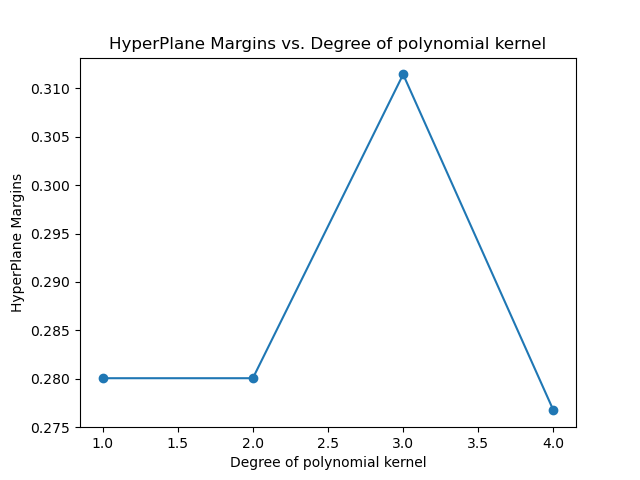
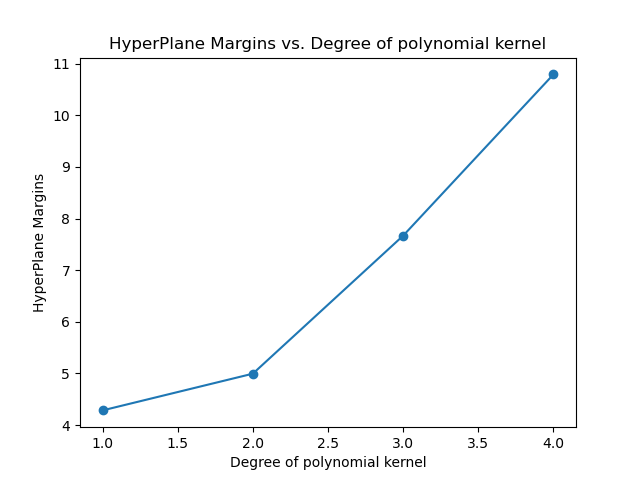
done with homework 4

diff --git a/Homework 4/assignment4.py b/Homework 4/assignment4.py
@@ -27,10 +27,9 @@ def read_classification_data(file_path:str) ->Tuple[np.array, np.array]:
     Return the data as 2 np arrays each with shape (number_of_rows_in_dataframe, 1)
     Order (np.array from first row), (np.array from second row)
   '''
-  #Read data
   data = np.genfromtxt(file_path, delimiter=',')
 
-  #Separate the rows
+  #separate rows
   row1 = data[0, :].reshape(-1, 1)
   row2 = data[1, :].reshape(-1, 1)
   return row1, row2
@@ -54,7 +53,7 @@ def cost_function(w:float, b:float, X:np.array, y:np.array) -> float:
     y : target with shape (number_of_rows_in_dataframe, 1)
   Return the loss as a float data type. 
   '''
-  #   compute the predictions
+  #     compute the predictions
   z = np.dot(X, w) + b
   y_pred = sigmoid(z)
 
@@ -89,7 +88,6 @@ def cross_entropy_optimizer(w:float, b:float, X:np.array, y:np.array, num_iterat
       #compute the predicted probabilities and loss
       z = np.dot(X, w) + b
       y_pred = sigmoid(z)
-      
       loss = cost_function(w, b, X, y)
       costs.append(loss)
 
@@ -102,7 +100,6 @@ def cross_entropy_optimizer(w:float, b:float, X:np.array, y:np.array, num_iterat
       b -= alpha * db
       w = w.item()
       b = b.item()
-
   return w, b, costs
     
 
@@ -134,7 +131,6 @@ def normalize_data(Xtrain : pd.DataFrame, Xtest : pd.DataFrame) -> Tuple [pd.Dat
     Use sklearn.preprocessing.StandardScaler library to normalize
     Return the results in the order Xtrain_norm, Xtest_norm
   '''
-
   scaler = StandardScaler()
   Xtrain_norm = scaler.fit_transform(Xtrain)
   Xtest_norm = scaler.transform(Xtest)
@@ -195,14 +191,14 @@ def cross_validate_c_vals(X : pd.DataFrame, y : pd.DataFrame, n_folds: int, c_va
   y = y.to_numpy().reshape((y_length,))
   for i, c in enumerate(c_vals):
       for j, d in enumerate(d_vals):
-          kf = StratifiedKFold(n_splits=n_folds)
+          fold = StratifiedKFold(n_splits=n_folds)
           fold_errors = []
-          for train_index, test_index in kf.split(X,y):
+          for train_index, test_index in fold.split(X,y):
               X_train, X_test = X.iloc[train_index], X.iloc[test_index]
               y_train, y_test = y[train_index], y[test_index]
-              clf = SVC(kernel='poly', degree=d, C=c, gamma='scale')
-              clf.fit(X_train, y_train)
-              y_pred = clf.predict(X_test)
+              svc_model = SVC(kernel='poly', degree=d, C=c)
+              svc_model.fit(X_train, y_train)
+              y_pred = svc_model.predict(X_test)
               fold_errors.append(mean_absolute_error(y_test, y_pred))
           ERRAVGdc[i][j] = np.mean(fold_errors)
           ERRSTDdc[i][j] = np.std(fold_errors)
@@ -251,92 +247,25 @@ def evaluate_c_d_pairs(X_train : pd.DataFrame, y_train : pd.DataFrame, X_test : 
     MarginT      - Average Value of Hyperplane Margins for each value of 'd'
   Implement- evaluate_c_d_pairs(), plot_test_errors, plot_avg_support_vec(), plot_avg_violating_support_vec(), plot_avg_hyperplane_margins()
   '''
-  """
-  ERRAVGdcTEST = np.zeros(len(d_vals))
-  SuppVect = np.zeros(len(d_vals))
-  vmd = np.zeros(len(d_vals))
+  ERRAVGdcTEST = np.zeros( len(d_vals))
+  SuppVect = np.zeros( len(d_vals))
+  vmd = np.zeros( len(d_vals))
   MarginT = np.zeros(len(d_vals))
 
-  y_train = y_train.to_numpy().ravel()
-  y_test = y_test.to_numpy().ravel()
-
-  for j, d in enumerate(d_vals):
-      best_c = c_vals[j]
-      clf = SVC(kernel='linear', degree=d, C=best_c)
-      clf.fit(X_train, y_train)
-      y_pred = clf.predict(X_test)
-      supp_vect_count = np.sum(clf.n_support_)
-      vmd_val = (1/2) * np.sum(clf.coef_**2) + clf.intercept_
-      margin_t = 1 / np.linalg.norm(clf.coef_)
-
-      ERRAVGdc = np.zeros(n_folds)
-      for i, (train_index, val_index) in enumerate(StratifiedKFold(n_splits=n_folds).split(X_train, y_train)):
-          X_train_kf, X_val = X_train.iloc[train_index], X_train.iloc[val_index]
-          y_train_kf, y_val = y_train[train_index], y_train[val_index]
-          clf = SVC(kernel='poly', degree=d, C=best_c, gamma='scale')
-          clf.fit(X_train_kf, y_train_kf)
-          y_val_pred = clf.predict(X_val)
-          ERRAVGdc[i] = mean_absolute_error(y_val, y_val_pred)
-
-      ERRAVGdcTEST[j] = mean_absolute_error(y_test, y_pred)
-      SuppVect[j] = supp_vect_count
-      vmd[j] = vmd_val
-      MarginT[j] = margin_t
-
-  return ERRAVGdcTEST, SuppVect, vmd, MarginT
-  """
-  # Create arrays to store results for each C and D value
-  ERR = np.zeros((n_folds, len(c_vals), len(d_vals)))
-  SuppVect = np.zeros((len(c_vals), len(d_vals)))
-  vmd = np.zeros((len(c_vals), len(d_vals)))
-  MarginT = np.zeros((len(c_vals), len(d_vals)))
-
-  # Set up K-fold cross-validation
-  kf = KFold(n_splits=n_folds)
-
-  # Loop through each degree of polynomial function (D value)
-  for j in range(len(d_vals)):
-      d = d_vals[j]
-      X = PolynomialFeatures(X_train, d)
-
-      # Loop through each regularization parameter (C value)
-      for i in range(len(c_vals)):
-          c = c_vals[i]
-          err = []
-          n_support_vectors = []
-          n_violating_vectors = []
-          margins = []
-
-          # Loop through each fold of the cross-validation
-          for train_index, val_index in kf.split(X_train):
-              X_train_fold, X_val_fold = X_train.iloc[train_index], X_train.iloc[val_index]
-              y_train_fold, y_val_fold = y_train.iloc[train_index], y_train.iloc[val_index]
-
-              # Train the SVM model with the current C and D values
-              clf = SVC(kernel='poly', C=c, degree=d)
-              clf.fit(X_train_fold, y_train_fold.values.ravel())
-
-              # Predict on the validation set and calculate the mean squared error
-              y_pred = clf.predict(X_val_fold)
-              err.append(mean_absolute_error(y_val_fold, y_pred))
-
-              # Record the number of support vectors and number of violating vectors
-              n_support_vectors.append(clf.n_support_.sum())
-              n_violating_vectors.append((np.abs(clf.decision_function(X_val_fold)) - 1 > 1e-5).sum())
-
-              # Record the margin of the hyperplane
-              margin = 2 / np.sqrt(np.sum(clf.coef_ ** 2))
-              margins.append(margin)
-
-          # Calculate the mean of each metric over all folds of cross-validation
-          ERR[:, i, j] = err
-          SuppVect[i, j] = np.mean(n_support_vectors)
-          vmd[i, j] = np.mean(n_violating_vectors)
-          MarginT[i, j] = np.mean(margins)
-
-  # Calculate the average testing error for each value of D
-  ERRAVGdcTEST = np.mean(ERR, axis=0)
-
+  y_train = y_train.to_numpy().reshape((y_train.shape[0],))
+  y_test = y_test.to_numpy().reshape((y_test.shape[0],))
+  
+  for i, c in enumerate(c_vals):
+      for j, d in enumerate(d_vals):
+          svc = SVC(kernel='poly', degree=d, C=c)
+          svc.fit(X_train, y_train)
+          y_pred = svc.predict(X_test)
+          test_error = mean_absolute_error(y_test, y_pred)
+          ERRAVGdcTEST[j] = test_error
+          SuppVect[j] = svc.support_vectors_.shape[0]
+          vmd[j] = np.mean(np.maximum(0, 1 - y_train * svc.decision_function(X_train)))
+          MarginT[j] = np.mean(np.abs(svc.decision_function(X_train)))
+  
   return ERRAVGdcTEST, SuppVect, vmd, MarginT
 
 @typechecked
